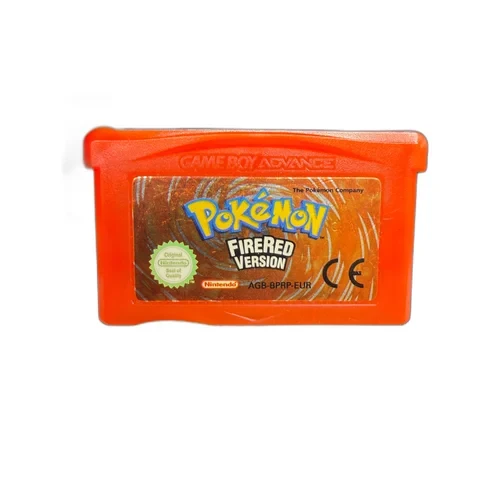
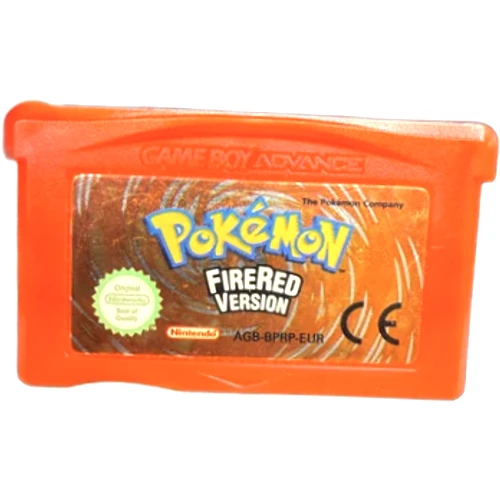
Productfoto's v2: rechtgezet en achtergrond opgeschoond

diff --git a/scripts/process-photos.js b/scripts/process-photos.js
@@ -4,34 +4,49 @@ const fs = require('fs');
 
 const INPUT_DIR = path.join(__dirname, '..', 'public', 'images', 'products', 'new');
 const OUTPUT_DIR = path.join(__dirname, '..', 'public', 'images', 'products');
+const WHITE = { r: 255, g: 255, b: 255 };
 
-// Mapping: game-XXX → SKU + bestandsnaam
+// Per foto: rotatie-correctie (graden, positief = klok mee) + SKU mapping
 const GAMES = [
-  { src: 'game-001', sku: 'gba-001', name: 'pokemon-emerald', hasBack: true },
-  { src: 'game-002', sku: 'gba-002', name: 'pokemon-firered-eur', hasBack: true },
-  { src: 'game-003', sku: 'gb-001', name: 'pokemon-crystal', hasBack: false }, // back is mismatched DS cart
-  { src: 'game-005', sku: 'gba-003', name: 'pokemon-firered-usa', hasBack: true },
-  { src: 'game-006', sku: 'gba-004', name: 'pokemon-leafgreen', hasBack: true },
-  { src: 'game-008', sku: 'gba-005', name: 'pokemon-sapphire', hasBack: true },
-  { src: 'game-009', sku: 'ds-001', name: 'pokemon-soulsilver', hasBack: true },
-  { src: 'game-011', sku: 'gb-002', name: 'pokemon-red', hasBack: false },
-  { src: 'game-013', sku: '3ds-001', name: 'pokemon-x', hasBack: true },
-  { src: 'game-014', sku: '3ds-002', name: 'pokemon-omega-ruby', hasBack: true },
-  { src: 'game-016', sku: 'ds-002', name: 'pokemon-white', hasBack: false },
-  { src: 'game-018', sku: 'ds-003', name: 'pokemon-black', hasBack: true },
-  { src: 'game-020', sku: 'ds-004', name: 'pokemon-pearl', hasBack: true },
+  { src: 'game-001', sku: 'gba-001', name: 'pokemon-emerald', hasBack: true, rotate: -5 },
+  { src: 'game-002', sku: 'gba-002', name: 'pokemon-firered-eur', hasBack: true, rotate: 2 },
+  { src: 'game-003', sku: 'gb-001', name: 'pokemon-crystal', hasBack: false, rotate: 2 },
+  { src: 'game-005', sku: 'gba-003', name: 'pokemon-firered-usa', hasBack: true, rotate: 1 },
+  { src: 'game-006', sku: 'gba-004', name: 'pokemon-leafgreen', hasBack: true, rotate: 2 },
+  { src: 'game-008', sku: 'gba-005', name: 'pokemon-sapphire', hasBack: true, rotate: 2 },
+  { src: 'game-009', sku: 'ds-001', name: 'pokemon-soulsilver', hasBack: true, rotate: 5 },
+  { src: 'game-011', sku: 'gb-002', name: 'pokemon-red', hasBack: false, rotate: 1 },
+  { src: 'game-013', sku: '3ds-001', name: 'pokemon-x', hasBack: true, rotate: 2 },
+  { src: 'game-014', sku: '3ds-002', name: 'pokemon-omega-ruby', hasBack: true, rotate: 3 },
+  { src: 'game-016', sku: 'ds-002', name: 'pokemon-white', hasBack: false, rotate: 2 },
+  { src: 'game-018', sku: 'ds-003', name: 'pokemon-black', hasBack: true, rotate: 3 },
+  { src: 'game-020', sku: 'ds-004', name: 'pokemon-pearl', hasBack: true, rotate: 1 },
 ];
 
-async function processImage(inputPath, outputPath) {
-  await sharp(inputPath)
-    .flatten({ background: { r: 255, g: 255, b: 255 } })
-    .resize(500, 500, {
-      fit: 'contain',
-      background: { r: 255, g: 255, b: 255 },
-      withoutEnlargement: false,
-    })
-    .webp({ quality: 90 })
-    .toFile(outputPath);
+async function processImage(inputPath, outputPath, angle) {
+  // Stap 1: Laden + transparantie plat op wit
+  let pipeline = sharp(inputPath)
+    .flatten({ background: WHITE });
+
+  // Stap 2: Rechtzetten
+  if (angle !== 0) {
+    pipeline = pipeline.rotate(angle, { background: WHITE });
+  }
+
+  // Stap 3: Helderheid verhogen zodat grijze achtergrond wit wordt
+  pipeline = pipeline.modulate({ brightness: 1.2 });
+
+  // Stap 4: Automatisch bijsnijden tot product (grijze randen weg)
+  pipeline = pipeline.trim({ threshold: 25 });
+
+  // Stap 5: Terug naar 500x500 gecentreerd op wit
+  pipeline = pipeline.resize(500, 500, {
+    fit: 'contain',
+    background: WHITE,
+    withoutEnlargement: false,
+  });
+
+  await pipeline.webp({ quality: 90 }).toFile(outputPath);
 }
 
 async function main() {
@@ -43,22 +58,28 @@ async function main() {
     const frontOut = path.join(OUTPUT_DIR, `${game.sku}-${game.name}.webp`);
 
     if (fs.existsSync(frontIn)) {
-      await processImage(frontIn, frontOut);
-      processed++;
-      console.log(`OK: ${game.sku}-${game.name}.webp`);
-    } else {
-      console.log(`SKIP: ${frontIn} niet gevonden`);
+      try {
+        await processImage(frontIn, frontOut, game.rotate);
+        processed++;
+        console.log(`OK: ${game.sku}-${game.name}.webp (${game.rotate > 0 ? '+' : ''}${game.rotate}°)`);
+      } catch (err) {
+        console.log(`FOUT: ${game.sku} front - ${err.message}`);
+      }
     }
 
-    // Back
+    // Back (zelfde rotatie als front)
     if (game.hasBack) {
       const backIn = path.join(INPUT_DIR, `${game.src}-back.webp`);
       const backOut = path.join(OUTPUT_DIR, `${game.sku}-${game.name}-back.webp`);
 
       if (fs.existsSync(backIn)) {
-        await processImage(backIn, backOut);
-        processed++;
-        console.log(`OK: ${game.sku}-${game.name}-back.webp`);
+        try {
+          await processImage(backIn, backOut, game.rotate);
+          processed++;
+          console.log(`OK: ${game.sku}-${game.name}-back.webp`);
+        } catch (err) {
+          console.log(`FOUT: ${game.sku} back - ${err.message}`);
+        }
       }
     }
   }
